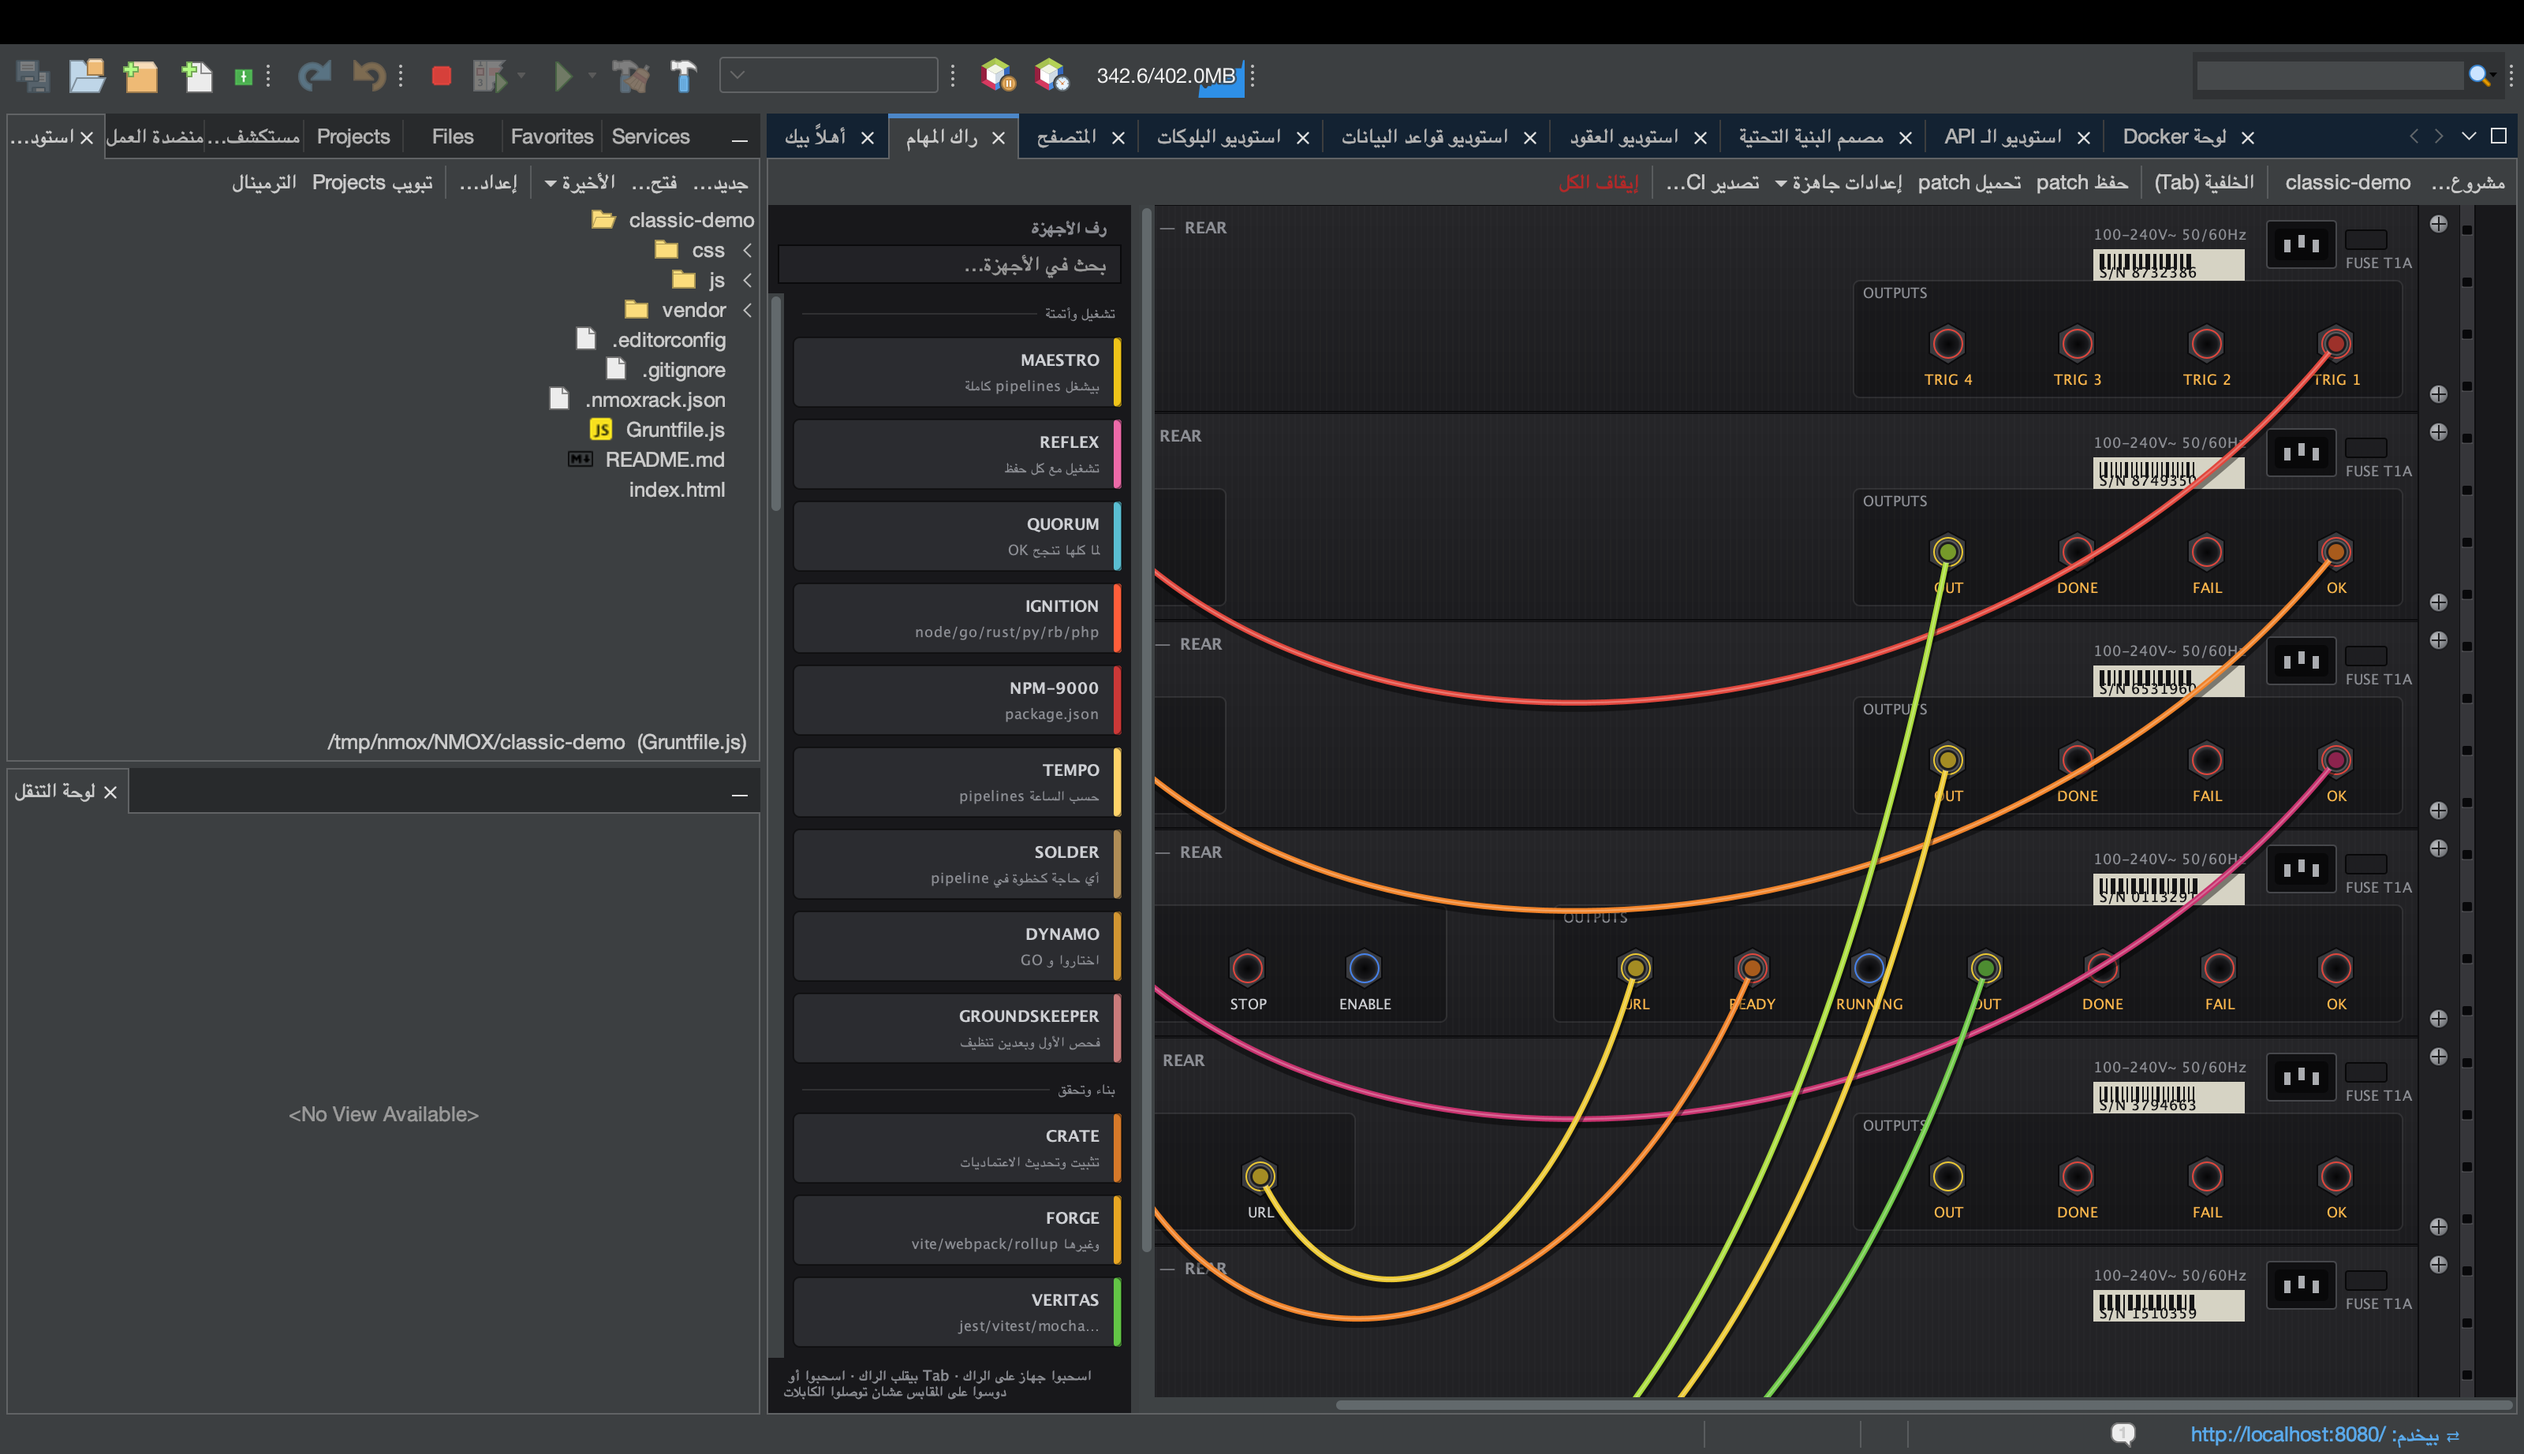
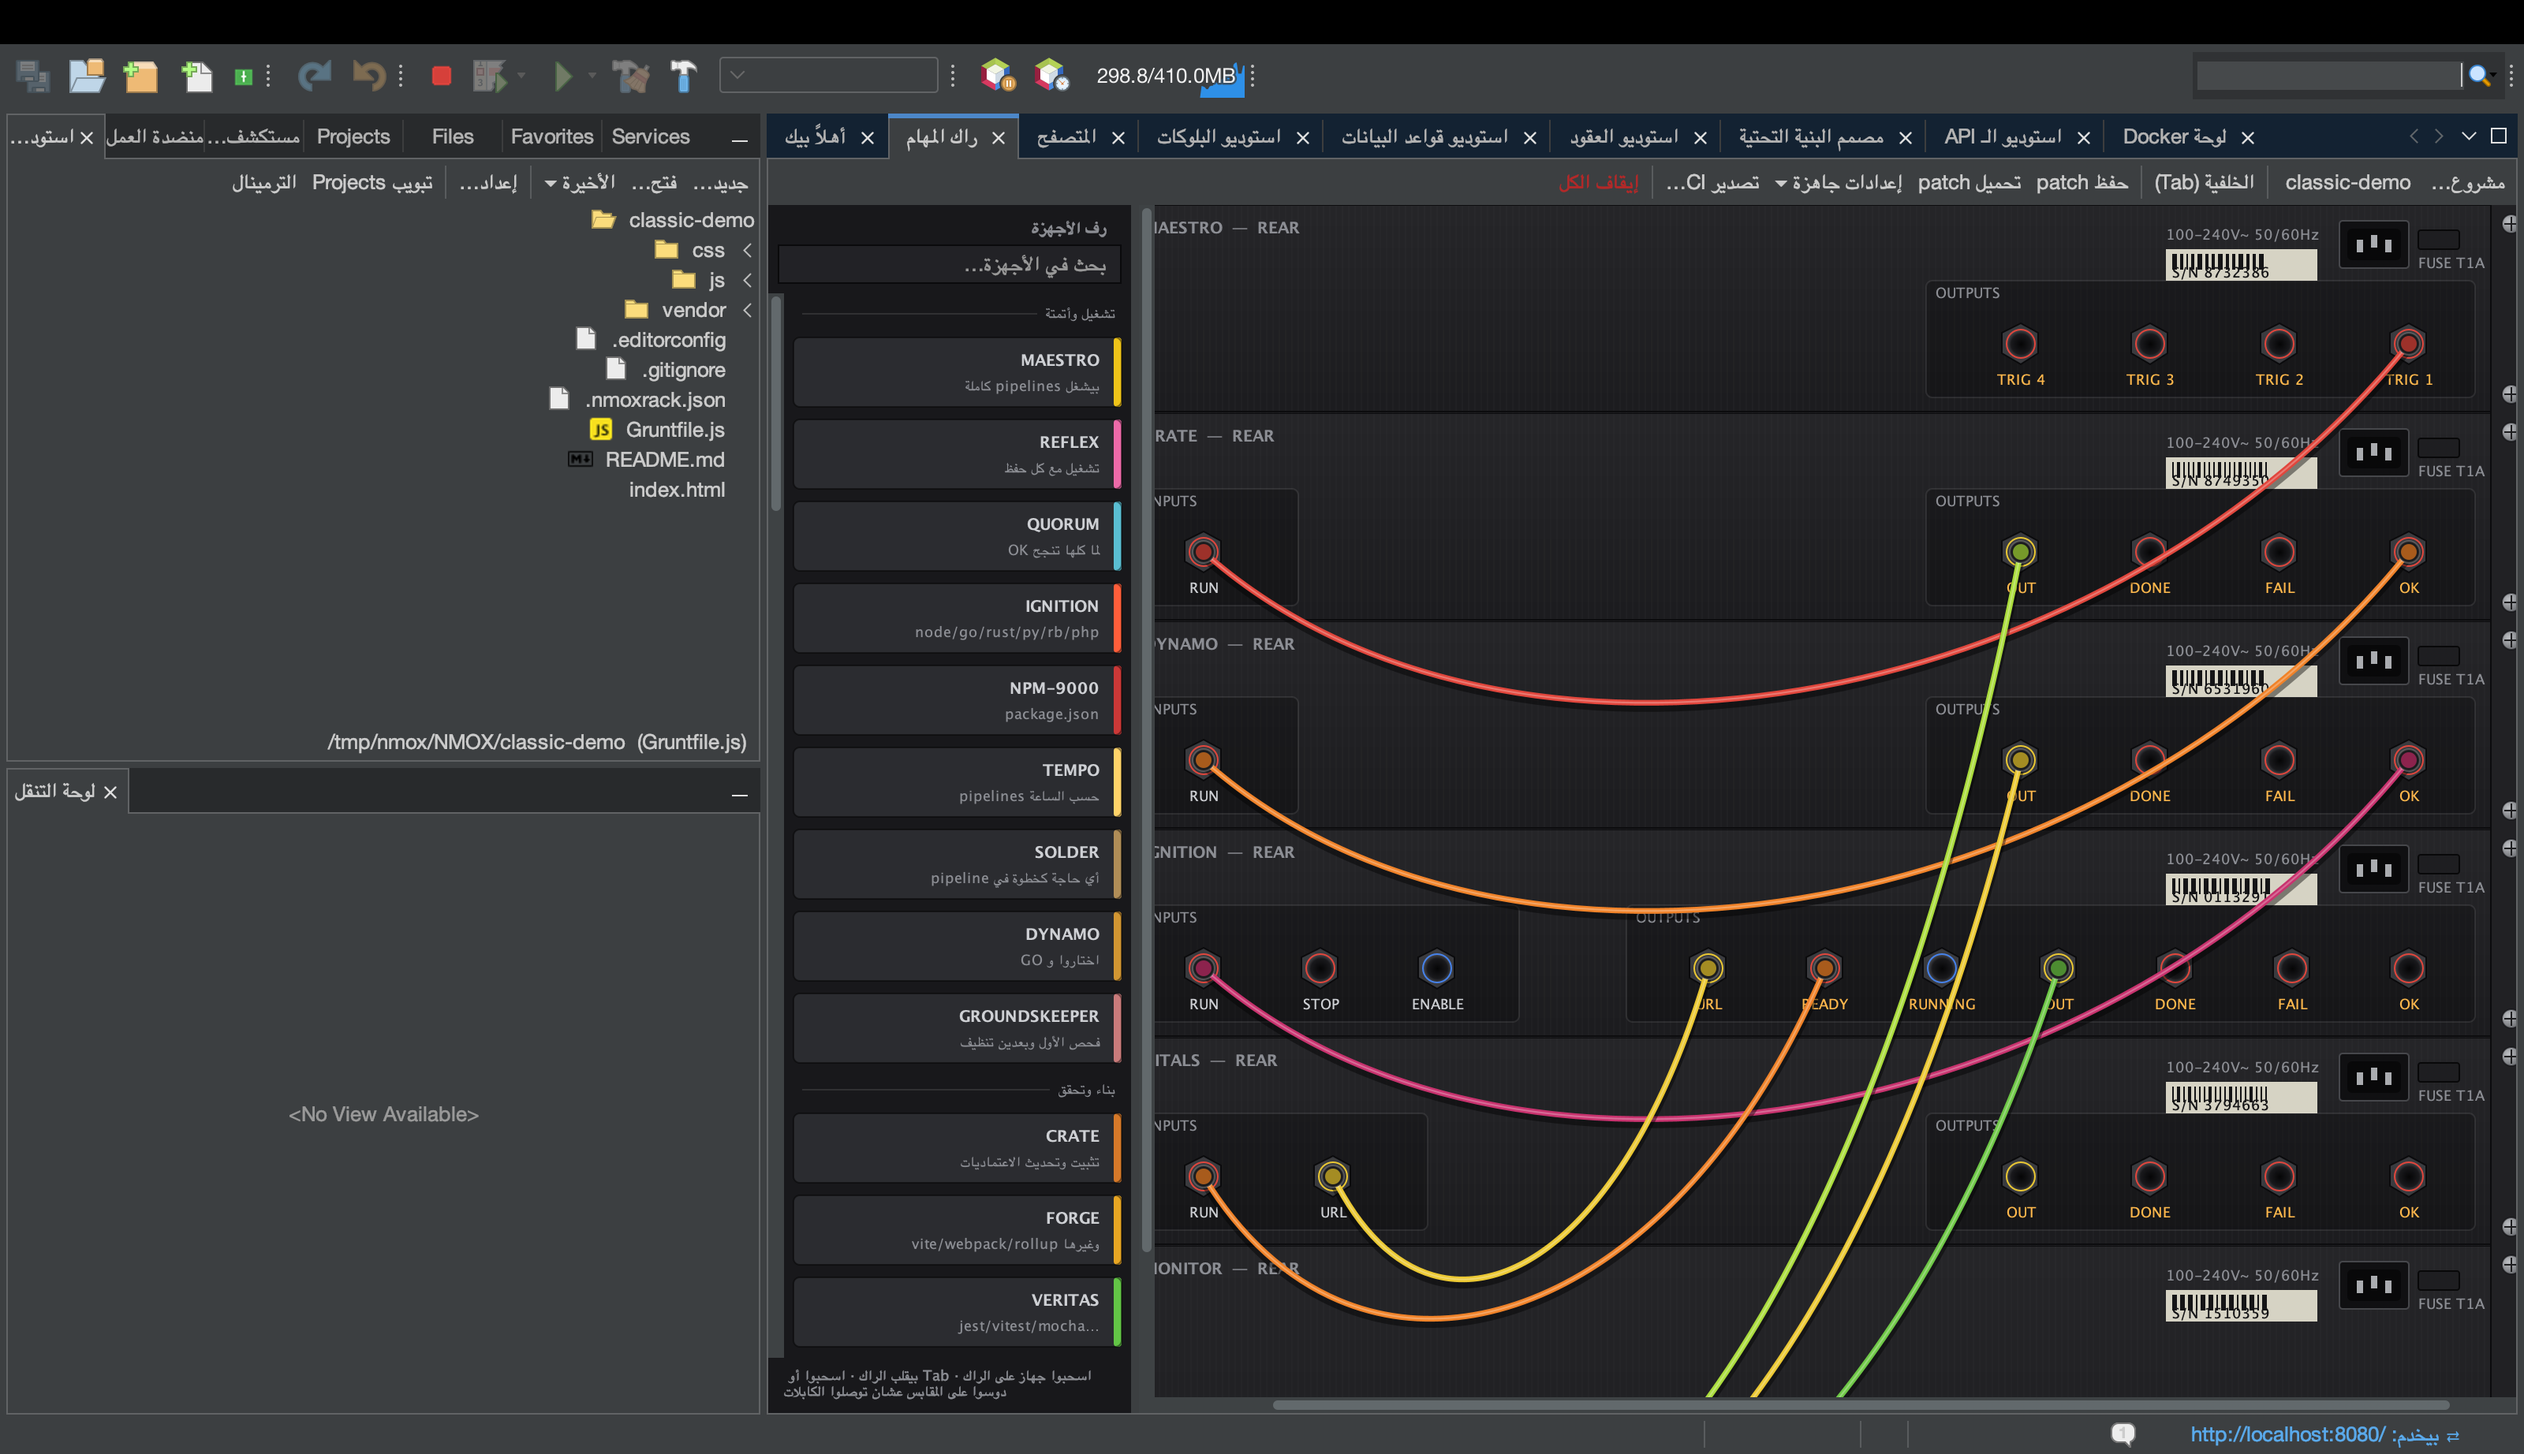
fix: the rack opens at the start of its content, in every language
A faceplate is painted geometry and never mirrors, so the rack's content
begins at its left edge in every direction. Swing's zero scroll value is
the far end of a right-to-left view, so the viewport's position says what
is meant; the Hebrew and Arabic Task Rack no longer opens on the tail of
every device face.

diff --git a/rack/src/test/java/org/nmox/studio/rack/ui/ScrollsTest.java b/rack/src/test/java/org/nmox/studio/rack/ui/ScrollsTest.java
@@ -1,8 +1,13 @@
 package org.nmox.studio.rack.ui;
 
+import java.awt.Dimension;
+import java.awt.Point;
 import java.nio.file.Files;
 import java.nio.file.Path;
 import java.util.regex.Pattern;
+
+import javax.swing.JPanel;
+import javax.swing.JScrollPane;
 
 import org.junit.jupiter.api.DisplayName;
 import org.junit.jupiter.api.Test;
@@ -10,39 +15,51 @@ import org.junit.jupiter.api.Test;
 import static org.assertj.core.api.Assertions.assertThat;
 
 /**
- * A mirrored view opens where its reader starts (v2.162.0): the forge's
+ * A rack view opens at the start of its content (v2.162.0): the forge's
  * Hebrew and Arabic Task Rack pictures showed every device face cut off,
- * because a right-to-left rack wider than its viewport opened at the far
- * end. Mutation-proven: a rule that always answers the minimum fails
- * {@code mirroredViewStartsAtTheFarSide} by name.
+ * because a mirrored window opens a wide view at Swing's zero scroll
+ * VALUE, which is the far end of the content. Mutation-proven: a rule that
+ * leaves the position alone fails {@code aScrolledViewOpensAtItsContentsStart}
+ * by name.
  */
 class ScrollsTest {
 
+    private static JScrollPane wideScrollPane() {
+        JPanel wide = new JPanel();
+        wide.setPreferredSize(new Dimension(2_000, 400));
+        wide.setSize(2_000, 400);
+        JScrollPane pane = new JScrollPane(wide);
+        pane.setSize(500, 300);
+        pane.getViewport().setSize(500, 300);
+        return pane;
+    }
+
     @Test
-    @DisplayName("a mirrored view starts at the far side; a left-to-right one at the minimum")
-    void mirroredViewStartsAtTheFarSide() {
-        // a 2000px view in a 500px viewport
-        assertThat(Scrolls.logicalStart(false, 0, 2_000, 500))
-                .as("right-to-left starts at the rightmost column")
-                .isEqualTo(1_500);
-        assertThat(Scrolls.logicalStart(true, 0, 2_000, 500))
-                .as("left-to-right starts at the left edge")
+    @DisplayName("a scrolled view opens at the start of its content, wherever it was")
+    void aScrolledViewOpensAtItsContentsStart() {
+        JScrollPane pane = wideScrollPane();
+        pane.getViewport().setViewPosition(new Point(1_400, 60));
+        assertThat(pane.getViewport().getViewPosition().x)
+                .as("the fixture really starts away from the content's start")
+                .isGreaterThan(0);
+
+        Scrolls.toContentStart(pane);
+
+        assertThat(pane.getViewport().getViewPosition().x)
+                .as("the first column of the content is showing")
                 .isZero();
+        assertThat(pane.getViewport().getViewPosition().y)
+                .as("how far down the reader had scrolled is left alone")
+                .isEqualTo(60);
     }
 
     @Test
-    @DisplayName("a view no wider than its viewport has nowhere to go")
-    void narrowViewStaysAtTheMinimum() {
-        assertThat(Scrolls.logicalStart(false, 0, 400, 500)).isZero();
-        assertThat(Scrolls.logicalStart(false, 0, 500, 500)).isZero();
-        assertThat(Scrolls.logicalStart(true, 0, 400, 500)).isZero();
-    }
-
-    @Test
-    @DisplayName("a non-zero minimum is still the floor")
-    void honoursTheModelsMinimum() {
-        assertThat(Scrolls.logicalStart(false, 100, 300, 500)).isEqualTo(100);
-        assertThat(Scrolls.logicalStart(true, 100, 2_000, 500)).isEqualTo(100);
+    @DisplayName("a view already at its start, or missing, is left alone")
+    void nothingToDoIsSafe() {
+        JScrollPane pane = wideScrollPane();
+        Scrolls.toContentStart(pane);
+        assertThat(pane.getViewport().getViewPosition()).isEqualTo(new Point(0, 0));
+        Scrolls.toContentStart(null); // must not throw
     }
 
     @Test
@@ -53,8 +70,8 @@ class ScrollsTest {
         Path window = Path.of("src/main/java/org/nmox/studio/rack/RackTopComponent.java");
         assertThat(window).isRegularFile();
         String source = Files.readString(window);
-        assertThat(Pattern.compile("(?m)^\\s*(\\(\\) ->\\s*)?(\\w+\\.)*Scrolls\\.toLogicalStart\\(").matcher(source).find())
-                .as("RackTopComponent calls Scrolls.toLogicalStart")
+        assertThat(Pattern.compile("(?m)^\\s*(\\(\\) ->\\s*)?(\\w+\\.)*Scrolls\\.toContentStart\\(").matcher(source).find())
+                .as("RackTopComponent calls Scrolls.toContentStart")
                 .isTrue();
         assertThat(source).contains("protected void componentShowing()");
     }

diff --git a/rack/src/main/java/org/nmox/studio/rack/ui/Scrolls.java b/rack/src/main/java/org/nmox/studio/rack/ui/Scrolls.java
@@ -1,21 +1,21 @@
 package org.nmox.studio.rack.ui;
 
-import javax.swing.JScrollBar;
+import java.awt.Point;
+
 import javax.swing.JScrollPane;
+import javax.swing.JViewport;
 
 /**
- * Where a scrolled view starts reading (v2.162.0). A left-to-right view
- * starts at the left edge, and Swing's zero scroll position already means
- * that. A MIRRORED view (the RTL work of v2.148.0 orients every window)
- * reads from the right, and zero is then the FAR end: the docs forge's
- * Hebrew and Arabic pictures of the Task Rack opened on the tail of every
- * device — MAESTRO reading "RO", KVASIR "IR" — because the rack is wider
- * than its viewport and the window had opened at the wrong end of it.
+ * Where a scrolled view starts reading (v2.162.0).
  *
- * <p>The decision is a pure function of the scrollbar's own numbers, so it
- * is tested without a laid-out window: a real {@code JScrollPane} recomputes
- * its model during layout and flips value-to-position under RTL, which makes
- * a headless assertion on the widget measure Swing rather than this rule.
+ * <p>A rack faceplate is painted GEOMETRY, and geometry does not mirror
+ * (the v2.148.0 decision: a device's jacks, meters and transport keep their
+ * shape in every language). So the rack's content begins at its left edge
+ * in every direction — but in a mirrored window Swing's zero scroll VALUE
+ * is the far end of it, and the Hebrew and Arabic pictures of the Task Rack
+ * opened on the tail of every device: MAESTRO reading "RO", KVASIR "IR".
+ * Setting the viewport's POSITION says what is meant regardless of the
+ * value-to-position flip a right-to-left scrollbar applies.
  */
 public final class Scrolls {
 
@@ -23,24 +23,22 @@ public final class Scrolls {
     }
 
     /**
-     * The scroll value a reader of this direction starts at: the minimum
-     * left-to-right, the far end right-to-left. A view no wider than its
-     * viewport has nowhere to go and stays at the minimum.
+     * Puts a scrolled view at the start of its content — the left edge —
+     * keeping whatever vertical position it had. A view narrower than its
+     * viewport is already there and does not move.
      */
-    public static int logicalStart(boolean leftToRight, int min, int max, int extent) {
-        return leftToRight ? min : Math.max(min, max - extent);
-    }
-
-    /** Puts the pane's horizontal view at the side its language reads from. */
-    public static void toLogicalStart(JScrollPane pane) {
+    public static void toContentStart(JScrollPane pane) {
         if (pane == null) {
             return;
         }
-        JScrollBar bar = pane.getHorizontalScrollBar();
-        if (bar == null) {
+        JViewport viewport = pane.getViewport();
+        if (viewport == null) {
             return;
         }
-        bar.setValue(logicalStart(pane.getComponentOrientation().isLeftToRight(),
-                bar.getMinimum(), bar.getMaximum(), bar.getVisibleAmount()));
+        Point at = viewport.getViewPosition();
+        if (at == null) {
+            return;
+        }
+        viewport.setViewPosition(new Point(0, at.y));
     }
 }

diff --git a/rack/src/main/java/org/nmox/studio/rack/RackTopComponent.java b/rack/src/main/java/org/nmox/studio/rack/RackTopComponent.java
@@ -546,11 +546,13 @@ public final class RackTopComponent extends TopComponent {
     @Override
     protected void componentShowing() {
         aimNodeShowing = true;
-        // a mirrored rack reads from the right, and Swing's zero scroll
-        // position is then the FAR end — the Hebrew and Arabic pictures of
-        // this window opened on the tail of every device face (v2.162.0)
+        // a rack faceplate is painted geometry and never mirrors, so the
+        // rack starts at its left edge in every language — but a mirrored
+        // window opens a wide view at the FAR end of it, which is how the
+        // Hebrew and Arabic pictures came out with every device face cut
+        // off (v2.162.0)
         javax.swing.SwingUtilities.invokeLater(
-                () -> org.nmox.studio.rack.ui.Scrolls.toLogicalStart(rackScroll));
+                () -> org.nmox.studio.rack.ui.Scrolls.toContentStart(rackScroll));
         // the publisher's equality guard makes re-shows of an unchanged aim
         // free; a fresh boot pays one ~/NMOX folder-node resolve on first
         // show (never while hidden), which touches no TCC-protected path
